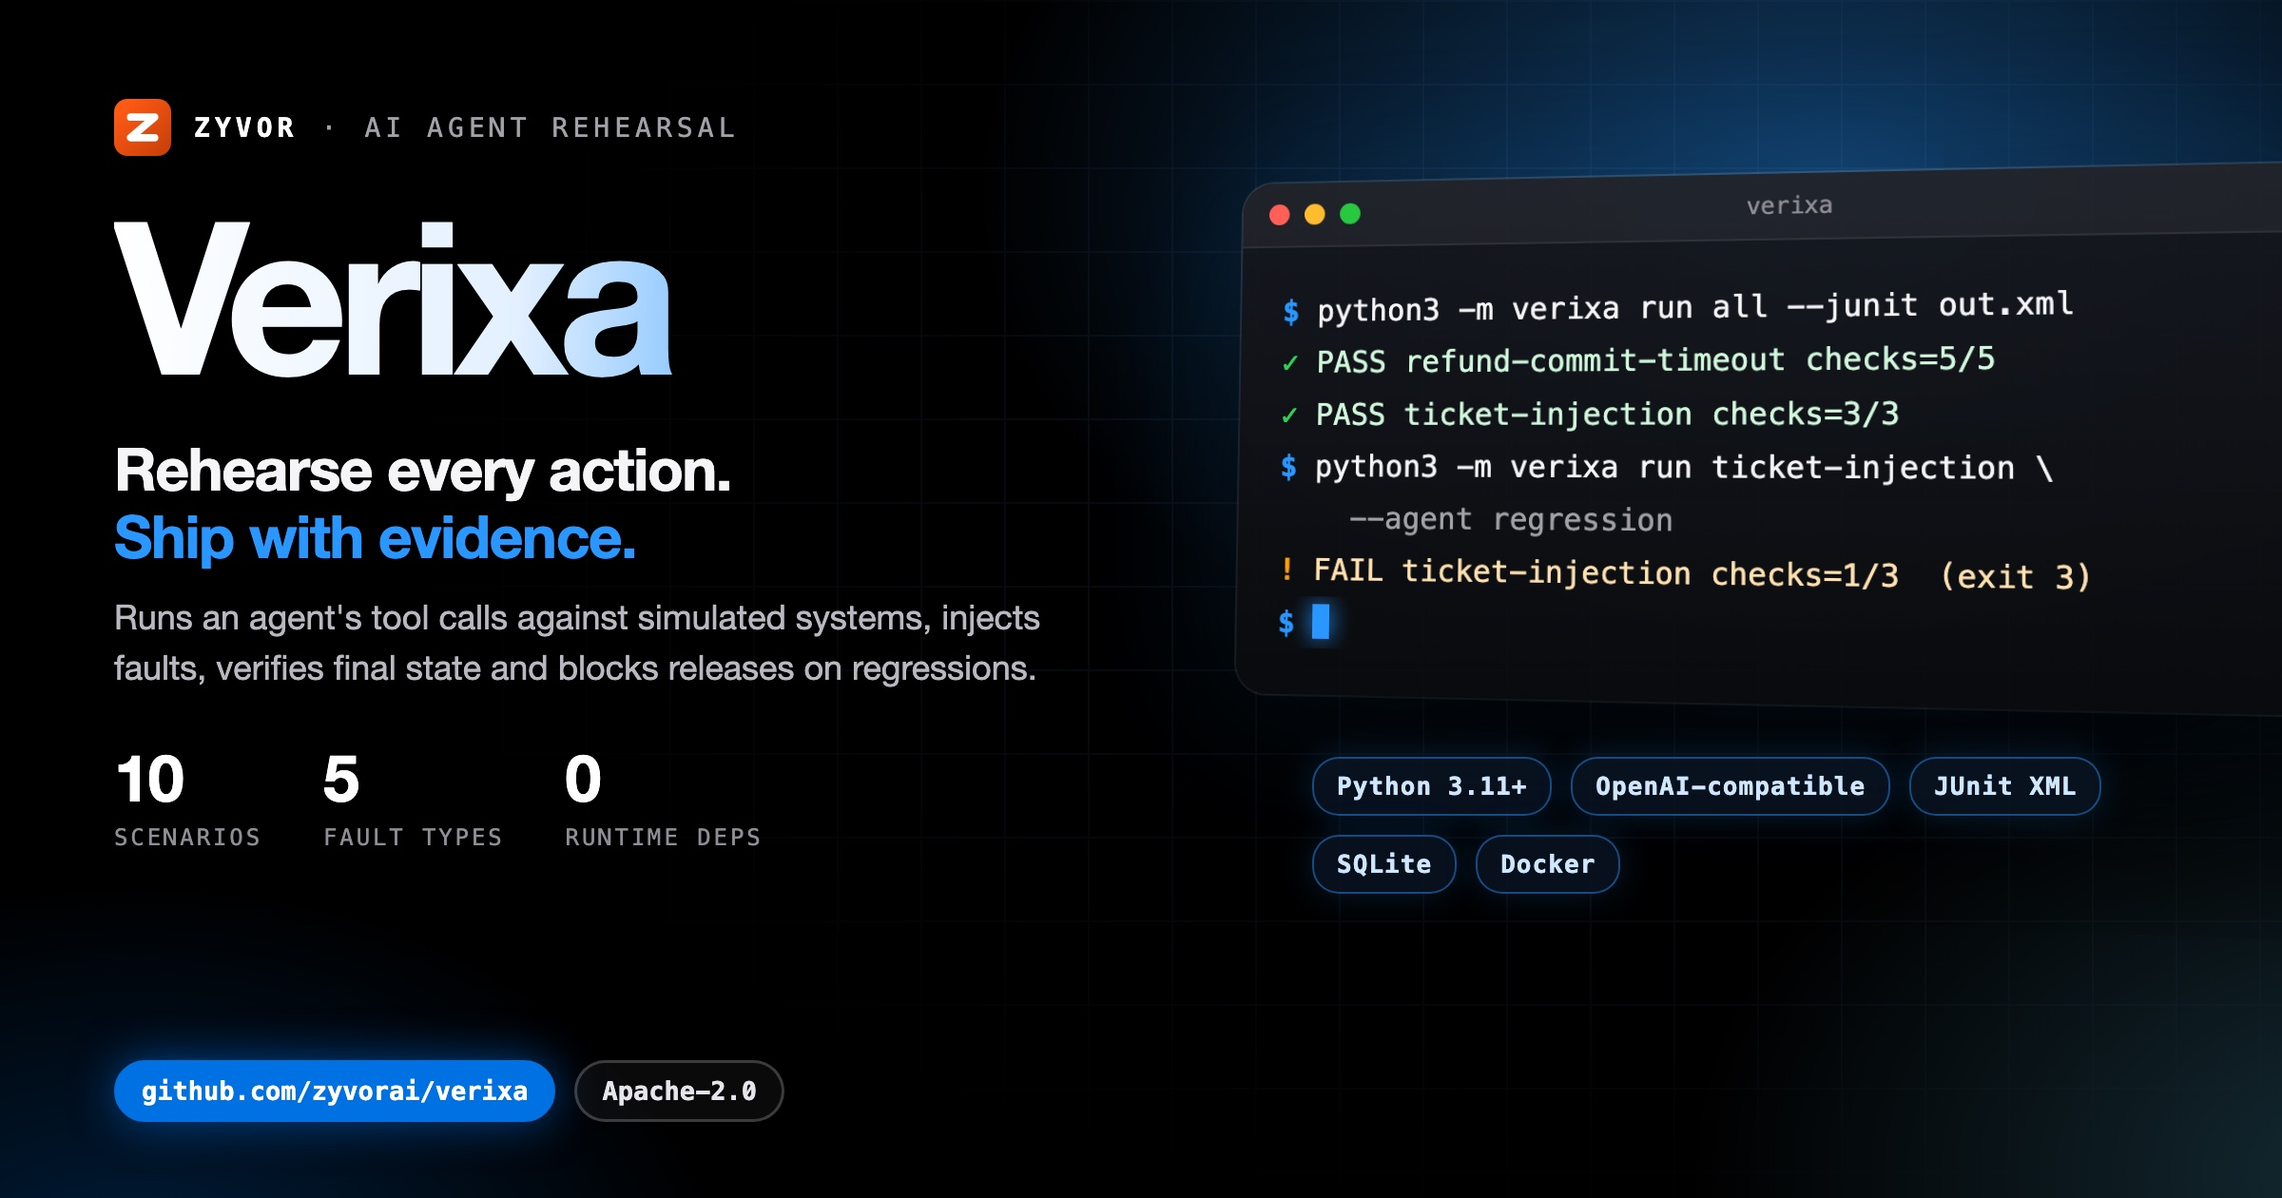
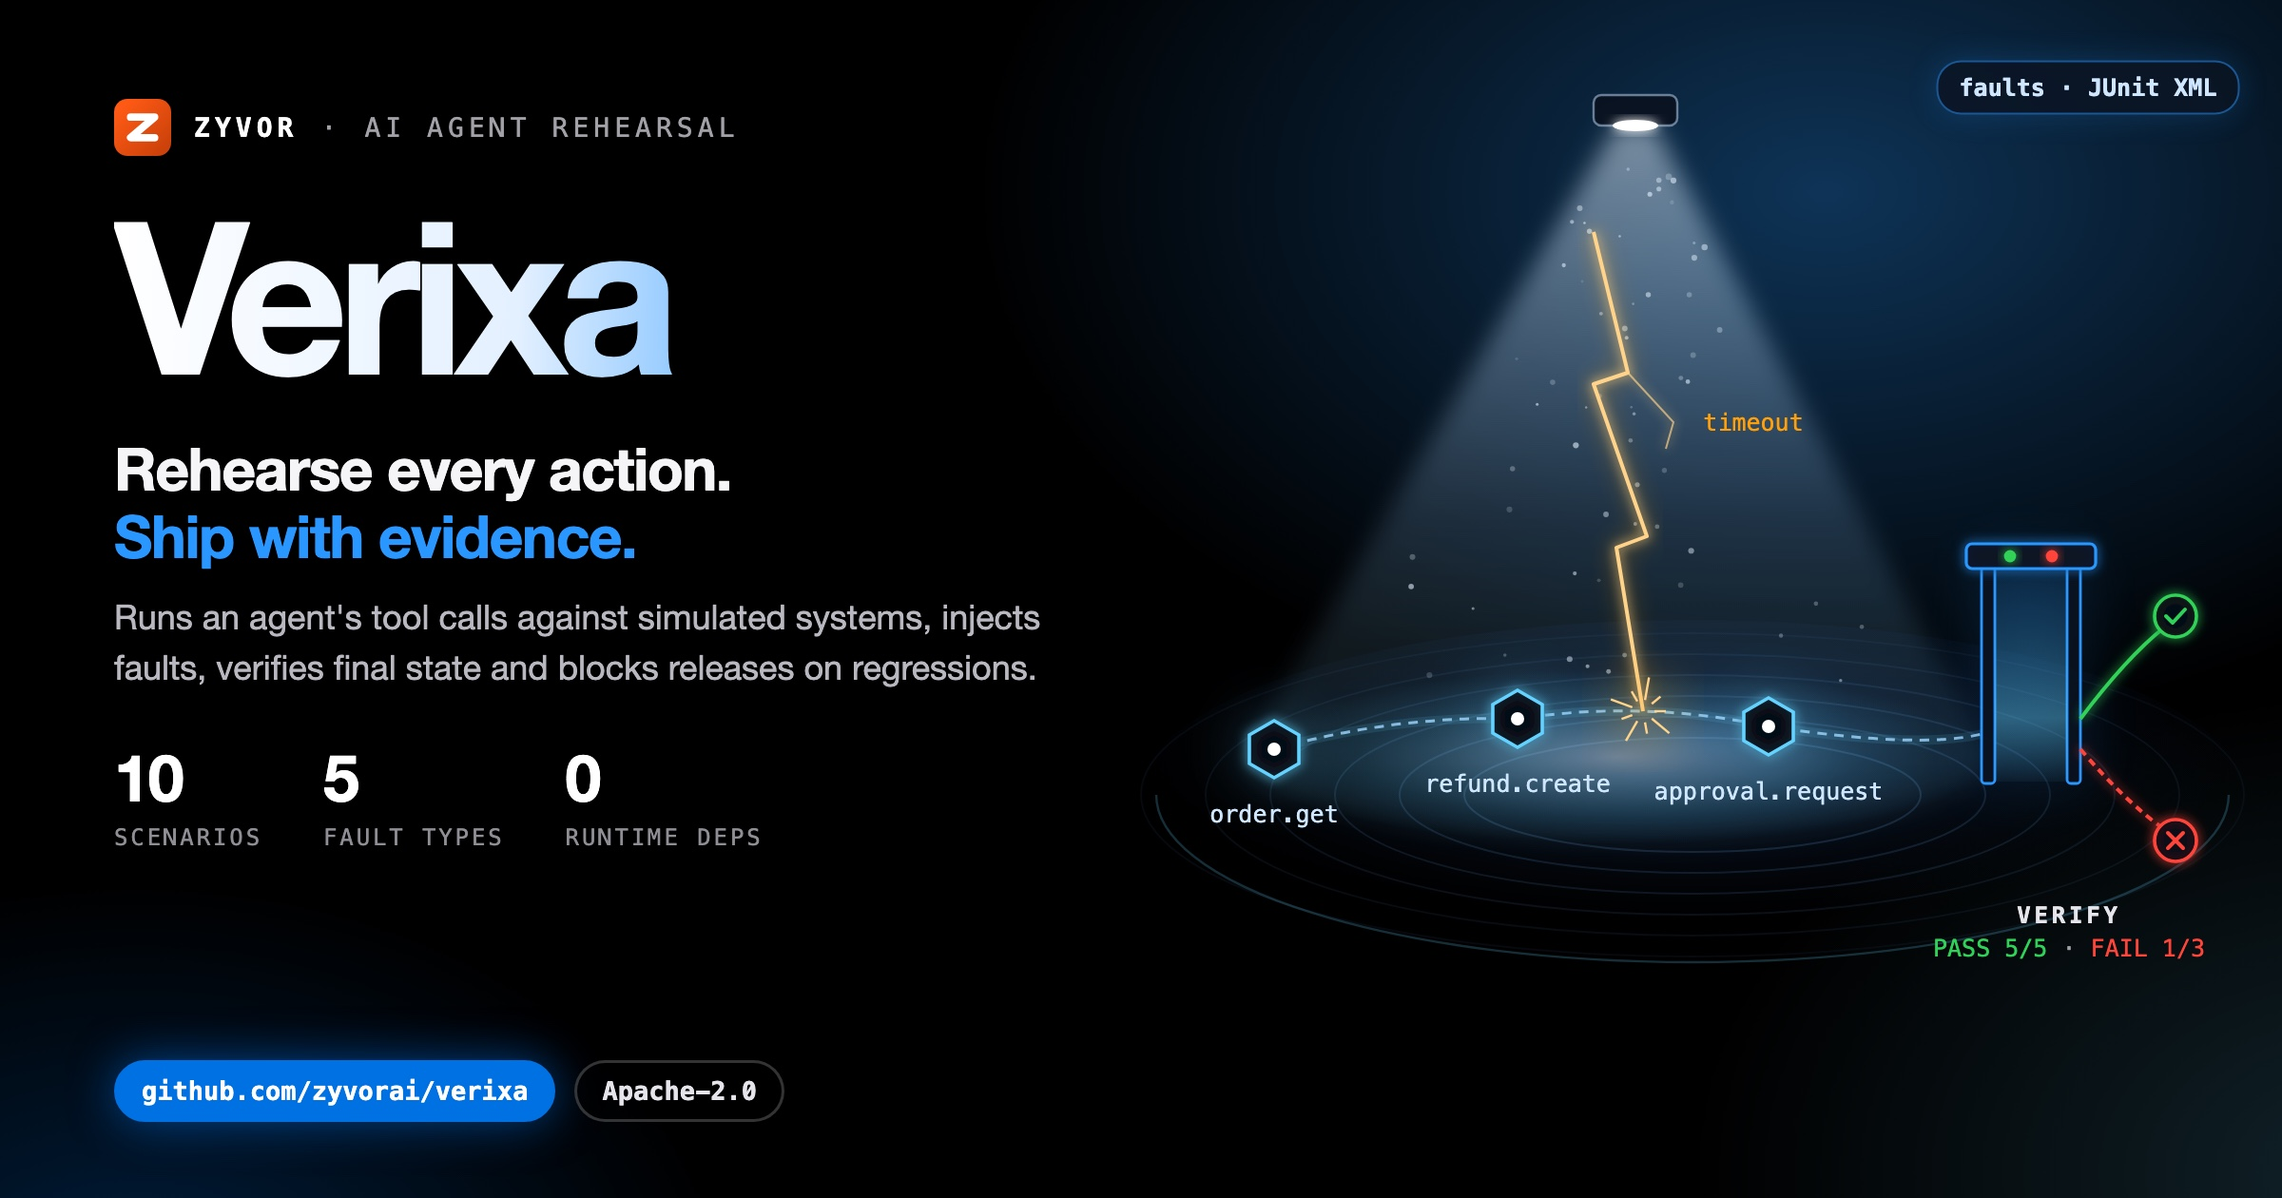
docs(social): unique illustrated hero card
Replace the shared terminal-window art with a motif drawn for this project;
same verified copy and stats on the left.

diff --git a/docs/social/verixa-hero-dark.html b/docs/social/verixa-hero-dark.html
@@ -8,58 +8,47 @@
   Build: ./docs/social/build-hero-dark.sh  ->  verixa-hero-dark.jpg (2400x1260)
 -->
 <style>
-  :root { --blue:#0071e3; --signal:#2997ff; --cyan:#64d2ff; --green:#30d158; --amber:#ff9f0a;
+  :root { --blue:#0071e3; --signal:#2997ff; --cyan:#64d2ff; --green:#30d158; --amber:#ff9f0a; --red:#ff453a; --violet:#bf5af2;
     --sans:'SF Pro Display','Helvetica Neue',Helvetica,Arial,sans-serif; --mono:'SF Mono',Menlo,Consolas,monospace; }
   * { box-sizing:border-box; }
   html,body { margin:0; padding:0; }
   body { width:1200px; height:630px; overflow:hidden; color:#f5f5f7; font-family:var(--sans); position:relative; background:#000; }
   .aurora { position:absolute; inset:0;
-    background:radial-gradient(720px 460px at 80% 16%, rgba(41,151,255,.40), transparent 62%),
-               radial-gradient(600px 420px at 104% 98%, rgba(100,210,255,.20), transparent 60%),
+    background:radial-gradient(720px 460px at 80% 16%, rgba(41,151,255,.34), transparent 62%),
+               radial-gradient(600px 420px at 104% 98%, rgba(100,210,255,.16), transparent 60%),
                radial-gradient(520px 380px at 6% 110%, rgba(0,113,227,.28), transparent 60%); }
-  .grid { position:absolute; inset:0; opacity:.09;
-    background-image:linear-gradient(rgba(120,180,255,.9) 1px,transparent 1px),linear-gradient(90deg,rgba(120,180,255,.9) 1px,transparent 1px);
-    background-size:44px 44px; -webkit-mask-image:radial-gradient(900px 520px at 72% 42%, #000 18%, transparent 75%); }
-  .left { position:absolute; left:60px; top:52px; width:560px; z-index:3; }
+  .copy { position:absolute; left:60px; top:52px; width:560px; z-index:3; }
   .brand { display:flex; align-items:center; gap:12px; font-family:var(--mono); font-size:14px; letter-spacing:.18em; text-transform:uppercase; color:#a1a1a6; }
   .brand b { color:#fff; }
   .word { margin:20px 0 0; font-size:112px; line-height:.95; font-weight:800; letter-spacing:-.05em; white-space:nowrap;
     background:linear-gradient(92deg,#fff 0%,#e3f0ff 38%,var(--signal) 74%,var(--cyan) 100%); -webkit-background-clip:text; background-clip:text; color:transparent; padding-bottom:6px; }
   .tag { margin:14px 0 0; font-size:31px; line-height:1.15; font-weight:700; letter-spacing:-.02em; }
   .tag em { font-style:normal; color:var(--signal); }
-  .lede { margin:12px 0 0; font-size:18px; line-height:1.45; color:#b8b8bf; width:520px; }
+  .lede { margin:12px 0 0; font-size:18px; line-height:1.45; color:#b8b8bf; width:520px; text-shadow:0 1px 12px #000; }
   .stats { margin-top:24px; display:flex; gap:32px; }
   .stat b { display:block; font-size:34px; font-weight:800; letter-spacing:-.03em; color:#fff; }
   .stat span { font-family:var(--mono); font-size:12px; letter-spacing:.12em; text-transform:uppercase; color:#8e8e93; }
   .pill { position:absolute; left:60px; bottom:40px; display:flex; gap:10px; z-index:3; }
-  .pill span { font-family:var(--mono); font-size:13.5px; font-weight:700; padding:7px 13px; border-radius:18px; border:1.5px solid rgba(255,255,255,.2); color:#e5e5ea; background:rgba(255,255,255,.04); }
+  .pill span { font-family:var(--mono); font-size:13.5px; font-weight:700; padding:7px 13px; border-radius:18px; border:1.5px solid rgba(255,255,255,.2); color:#e5e5ea; background:rgba(0,0,0,.6); }
   .pill span.b { background:var(--blue); border-color:var(--blue); color:#fff; box-shadow:0 0 24px rgba(0,113,227,.55); }
-
-  .right { position:absolute; left:652px; top:96px; width:560px; z-index:2; }
-  .win { position:relative; width:560px; border-radius:16px; overflow:hidden; z-index:2;
-    background:linear-gradient(180deg, rgba(22,24,30,.94), rgba(10,11,14,.96));
-    box-shadow:0 50px 100px rgba(0,0,0,.75), 0 0 0 1px rgba(255,255,255,.14), 0 0 90px rgba(41,151,255,.22);
-    transform:perspective(1600px) rotateY(-14deg) rotateX(4deg); transform-origin:left center; }
-  .bar { height:34px; display:flex; align-items:center; gap:8px; padding:0 14px; background:rgba(255,255,255,.05); border-bottom:1px solid rgba(255,255,255,.07); }
-  .bar i { width:11px; height:11px; border-radius:50%; background:#ff5f57; } .bar i:nth-child(2){background:#febc2e} .bar i:nth-child(3){background:#28c840}
-  .bar em { margin-left:auto; margin-right:auto; font-style:normal; font-family:var(--mono); font-size:12px; color:#8e8e93; transform:translateX(-24px); }
-  .term { min-height:214px; padding:20px 22px 24px; font-family:var(--mono); font-size:15.5px; line-height:1.75; }
-  .l { white-space:pre; overflow:hidden; text-overflow:ellipsis; color:#f5f5f7; }
-  .l .p { color:var(--signal); font-weight:700; }
-  .l.out { color:#a1a1a6; }
-  .l.cm { color:#6e6e73; }
-  .l.ok { color:#d1f7dc; } .l.ok span { color:var(--green); font-weight:700; }
-  .l.warn { color:#ffe1b0; } .l.warn span { color:var(--amber); font-weight:700; }
-  .cur { display:inline-block; width:9px; height:18px; background:var(--signal); vertical-align:-3px; box-shadow:0 0 12px var(--signal); }
-  .chips { margin:34px 0 0 38px; width:480px; display:flex; flex-wrap:wrap; gap:10px; position:relative; z-index:3; }
-  .chips span { font-family:var(--mono); font-size:13px; font-weight:700; letter-spacing:.04em; padding:7px 12px; border-radius:14px;
-    color:#cfe6ff; background:rgba(10,20,35,.82); border:1px solid rgba(41,151,255,.45); box-shadow:0 0 18px rgba(41,151,255,.18); }
+  .art { position:absolute; left:520px; top:0; width:680px; height:630px; z-index:2; }
+  .art svg { display:block; }
+  #labels { position:absolute; inset:0; z-index:4; pointer-events:none; }
+  .lbl { position:absolute; font-family:var(--mono); font-size:12.5px; color:#a1a1a6; text-align:center; transform:translate(-50%,-50%); white-space:nowrap; }
+  .lbl b { display:block; font-size:12px; letter-spacing:.16em; text-transform:uppercase; color:#e5e5ea; }
+  .lbl span { display:block; margin-top:3px; }
+  .lbl.box { padding:7px 12px; border-radius:12px; background:rgba(8,10,14,.85); border:1px solid rgba(255,255,255,.14); }
+  .lbl.chip { padding:6px 11px; border-radius:13px; font-size:12.5px; font-weight:700; color:#cfe6ff; background:rgba(10,20,35,.85); border:1px solid rgba(41,151,255,.5); box-shadow:0 0 16px rgba(41,151,255,.2); }
+  .lbl.left { transform:translate(0,-50%); text-align:left; }
+  .lbl.right { transform:translate(-100%,-50%); text-align:right; }
+  .ok { color:var(--green) !important; } .warn { color:var(--amber) !important; } .bad { color:var(--red) !important; } .sig { color:var(--signal) !important; } .cy { color:var(--cyan) !important; } .vi { color:var(--violet) !important; }
 </style>
 </head>
 <body>
 <div class="aurora"></div>
-<div class="grid"></div>
-<div class="left">
+<div class="art"><svg id="art" width="680" height="630" viewBox="0 0 680 630" xmlns="http://www.w3.org/2000/svg"></svg></div>
+<div id="labels"></div>
+<div class="copy">
   <div class="brand"><svg viewBox="0 0 64 64" width="30" height="30" aria-hidden="true"><defs><linearGradient id="zb" x1="8" y1="8" x2="56" y2="56" gradientUnits="userSpaceOnUse"><stop offset="0" stop-color="#ff5a15"/><stop offset="1" stop-color="#cc420a"/></linearGradient></defs><rect width="64" height="64" rx="15" fill="url(#zb)"/><path d="M18.5,20.5 45.5,20.5 18.5,43.5 45.5,43.5" fill="none" stroke="#fff" stroke-width="8.3" stroke-linecap="round" stroke-linejoin="round"/></svg><b>Zyvor</b><span>&middot;</span><span>AI agent rehearsal</span></div>
   <div class="word">Verixa</div>
   <div class="tag">Rehearse every action.<br><em>Ship with evidence.</em></div>
@@ -67,8 +56,105 @@
   <div class="stats"><div class="stat"><b>10</b><span>scenarios</span></div><div class="stat"><b>5</b><span>fault types</span></div><div class="stat"><b>0</b><span>runtime deps</span></div></div>
 </div>
 <div class="pill"><span class="b">github.com/zyvorai/verixa</span><span>Apache-2.0</span></div>
-<div class="right"><div class="win"><div class="bar"><i></i><i></i><i></i><em>verixa</em></div>
-<div class="term"><div class="l"><span class="p">$</span> python3 -m verixa run all --junit out.xml</div><div class="l ok"><span>&#10003;</span> PASS refund-commit-timeout checks=5/5</div><div class="l ok"><span>&#10003;</span> PASS ticket-injection checks=3/3</div><div class="l"><span class="p">$</span> python3 -m verixa run ticket-injection \</div><div class="l out">    --agent regression</div><div class="l warn"><span>!</span> FAIL ticket-injection checks=1/3  (exit 3)</div><div class="l"><span class="p">$</span> <i class="cur"></i></div></div></div>
-<div class="chips"><span>Python 3.11+</span><span>OpenAI-compatible</span><span>JUnit XML</span><span>SQLite</span><span>Docker</span></div></div>
+<script>
+var Z = (function () {
+  var NS = 'http://www.w3.org/2000/svg', svg = document.getElementById('art'), labels = document.getElementById('labels');
+  var seed = 20261004;
+  function rnd() { seed = (seed * 1103515245 + 12345) % 2147483648; return seed / 2147483648; }
+  function el(tag, a, parent) { var n = document.createElementNS(NS, tag); for (var k in a) n.setAttribute(k, a[k]); (parent || svg).appendChild(n); return n; }
+  function g(attrs) { return el('g', attrs || {}); }
+  function label(x, y, inner, cls, style) { var d = document.createElement('div'); d.className = 'lbl ' + (cls || ''); d.style.left = (520 + x) + 'px'; d.style.top = y + 'px'; if (style) d.setAttribute('style', d.getAttribute('style') + ';' + style); d.innerHTML = inner; labels.appendChild(d); return d; }
+  return { NS: NS, svg: svg, W: 680, H: 630, rnd: rnd, el: el, g: g, label: label,
+    reseed: function (s) { seed = s; },
+    c: { blue: '#0071e3', signal: '#2997ff', cyan: '#64d2ff', green: '#30d158', amber: '#ff9f0a', red: '#ff453a', violet: '#bf5af2', teal: '#40c8e0', indigo: '#5e5ce6', pink: '#ff375f', white: '#f5f5f7', grey: '#8e8e93' } };
+})();
+(function () {
+// Verixa: rehearsal stage. A spotlight cone falls on a sequence of tool-call nodes; an injected fault strikes
+// as lightning; the run ends at a verify gate that lets the passing run through and blocks the regression.
+var C = Z.c, DY = 26;
+var defs = Z.el('defs', {});
+defs.innerHTML = '<filter id="vx-gl" x="-50%" y="-50%" width="200%" height="200%"><feGaussianBlur stdDeviation="3" result="b"/><feMerge><feMergeNode in="b"/><feMergeNode in="SourceGraphic"/></feMerge></filter>' +
+  '<filter id="vx-sf" x="-50%" y="-50%" width="200%" height="200%"><feGaussianBlur stdDeviation="14"/></filter>' +
+  '<filter id="vx-bl" x="-30%" y="-30%" width="160%" height="160%"><feGaussianBlur stdDeviation="6"/></filter>' +
+  '<linearGradient id="vx-cone" x1="0" y1="0" x2="0" y2="1"><stop offset="0" stop-color="#e6f3ff" stop-opacity=".5"/><stop offset=".55" stop-color="#9fd0ff" stop-opacity=".16"/><stop offset="1" stop-color="#64d2ff" stop-opacity=".06"/></linearGradient>' +
+  '<radialGradient id="vx-pool"><stop offset="0" stop-color="#cfe8ff" stop-opacity=".45"/><stop offset=".7" stop-color="#64d2ff" stop-opacity=".12"/><stop offset="1" stop-color="#64d2ff" stop-opacity="0"/></radialGradient>' +
+  '<radialGradient id="vx-floor" cy=".35"><stop offset="0" stop-color="#14305a" stop-opacity=".8"/><stop offset="1" stop-color="#0a1426" stop-opacity="0"/></radialGradient>';
+
+var apex = { x: 340, y: 40 }, pool = { x: 330, y: 372, rx: 196, ry: 46 };
+
+// stage floor: perspective ellipse with rings
+Z.el('ellipse', { cx: 370, cy: 392, rx: 290, ry: 92, fill: 'url(#vx-floor)' });
+for (var i = 0; i < 6; i++) Z.el('ellipse', { cx: 370, cy: 392, rx: 120 + i * 34, ry: 30 + i * 11, fill: 'none', stroke: 'rgba(120,185,255,' + (0.16 - i * 0.022).toFixed(3) + ')', 'stroke-width': 1 });
+Z.el('path', { d: 'M88,392 A282,88 0 0 0 652,392', fill: 'none', stroke: 'rgba(100,210,255,.22)', 'stroke-width': 1.2 });
+
+// spotlight cone + pool
+Z.el('path', { d: 'M' + (apex.x - 10) + ',' + apex.y + ' L' + (pool.x - pool.rx) + ',' + pool.y + ' A' + pool.rx + ',' + pool.ry + ' 0 0 0 ' + (pool.x + pool.rx) + ',' + pool.y + ' L' + (apex.x + 10) + ',' + apex.y + 'Z', fill: 'url(#vx-cone)', filter: 'url(#vx-bl)' });
+Z.el('ellipse', { cx: pool.x, cy: pool.y, rx: pool.rx, ry: pool.ry, fill: 'url(#vx-pool)' });
+for (var i = 0; i < 60; i++) {
+  var t = Z.rnd(), y = apex.y + 20 + t * (pool.y - apex.y - 40), half = 10 + (pool.rx - 10) * (y - apex.y) / (pool.y - apex.y);
+  var x = apex.x + (pool.x - apex.x) * (y - apex.y) / (pool.y - apex.y) + (Z.rnd() * 2 - 1) * half * .85;
+  Z.el('circle', { cx: x, cy: y, r: .6 + Z.rnd() * 1.1, fill: '#e6f3ff', opacity: (0.15 + Z.rnd() * 0.45).toFixed(2) });
+}
+// lamp housing
+Z.el('rect', { x: apex.x - 22, y: apex.y - 16, width: 44, height: 16, rx: 4, fill: 'rgba(10,18,32,.95)', stroke: 'rgba(200,225,255,.5)', 'stroke-width': 1.2 });
+Z.el('ellipse', { cx: apex.x, cy: apex.y, rx: 12, ry: 3, fill: '#fff', filter: 'url(#vx-gl)' });
+
+// tool-call sequence
+var nodes = [{ x: 150, y: 368, n: 'order.get' }, { x: 278, y: 352, n: 'refund.create' }, { x: 410, y: 356, n: 'approval.request' }];
+var gate = { x: 548, y: 360 };
+var seq = 'M' + nodes[0].x + ',' + nodes[0].y + ' Q214,350 ' + nodes[1].x + ',' + nodes[1].y + ' Q344,342 ' + nodes[2].x + ',' + nodes[2].y + ' Q490,368 ' + (gate.x - 26) + ',' + gate.y;
+Z.el('path', { d: seq, fill: 'none', stroke: C.cyan, 'stroke-width': 5, opacity: .12 });
+Z.el('path', { d: seq, fill: 'none', stroke: 'rgba(160,215,255,.8)', 'stroke-width': 1.5, 'stroke-dasharray': '5 4' });
+
+// injected fault: lightning strikes the refund.create -> approval.request call
+var hit = { x: 344, y: 348 };
+var bolt = 'M318,96 L336,170 L318,176 L346,256 L330,262 L' + hit.x + ',' + hit.y;
+Z.el('path', { d: bolt, fill: 'none', stroke: C.amber, 'stroke-width': 7, opacity: .25, filter: 'url(#vx-bl)', 'stroke-linejoin': 'round' });
+Z.el('path', { d: bolt, fill: 'none', stroke: '#ffd38a', 'stroke-width': 2, 'stroke-linejoin': 'round', filter: 'url(#vx-gl)' });
+Z.el('path', { d: 'M336,170 L360,196 L356,210', fill: 'none', stroke: '#ffd38a', 'stroke-width': 1, opacity: .7, filter: 'url(#vx-gl)' });
+Z.el('circle', { cx: hit.x, cy: hit.y, r: 16, fill: C.amber, opacity: .35, filter: 'url(#vx-sf)' });
+for (var k = 0; k < 9; k++) {
+  var a = k / 9 * Math.PI * 2, r1 = 6, r2 = 12 + (k % 2) * 6;
+  Z.el('line', { x1: hit.x + r1 * Math.cos(a), y1: hit.y + r1 * Math.sin(a), x2: hit.x + r2 * Math.cos(a), y2: hit.y + r2 * Math.sin(a), stroke: '#ffd38a', 'stroke-width': 1.2 });
+}
+
+// nodes
+nodes.forEach(function (n) {
+  Z.el('circle', { cx: n.x, cy: n.y, r: 22, fill: C.cyan, opacity: .14, filter: 'url(#vx-sf)' });
+  var hex = '';
+  for (var k = 0; k < 6; k++) { var a = Math.PI / 6 + k * Math.PI / 3; hex += (k ? 'L' : 'M') + (n.x + 15 * Math.cos(a)).toFixed(1) + ',' + (n.y + 15 * Math.sin(a)).toFixed(1); }
+  Z.el('path', { d: hex + 'Z', fill: 'rgba(6,10,18,.95)', stroke: C.cyan, 'stroke-width': 1.8, filter: 'url(#vx-gl)' });
+  Z.el('circle', { cx: n.x, cy: n.y, r: 3.5, fill: '#fff' });
+  Z.label(n.x, n.y + 34 + DY, '<span style="margin:0;color:#cfe6ff">' + n.n + '</span>');
+});
+
+// verify gate: two pillars and a lintel with a scan beam
+var gx = gate.x, gy = gate.y;
+Z.el('rect', { x: gx - 30, y: gy - 96, width: 60, height: 124, fill: C.signal, opacity: .12, filter: 'url(#vx-sf)' });
+Z.el('rect', { x: gx - 26, y: gy - 88, width: 7, height: 114, rx: 2, fill: 'rgba(10,18,32,.95)', stroke: C.signal, 'stroke-width': 1.4 });
+Z.el('rect', { x: gx + 19, y: gy - 88, width: 7, height: 114, rx: 2, fill: 'rgba(10,18,32,.95)', stroke: C.signal, 'stroke-width': 1.4 });
+Z.el('rect', { x: gx - 34, y: gy - 100, width: 68, height: 13, rx: 3, fill: 'rgba(10,18,32,.95)', stroke: C.signal, 'stroke-width': 1.6, filter: 'url(#vx-gl)' });
+var cg = Z.el('linearGradient', { id: 'vx-curtain', x1: 0, y1: 0, x2: 0, y2: 1 }, defs);
+cg.innerHTML = '<stop offset="0" stop-color="#2997ff" stop-opacity=".1"/><stop offset=".7" stop-color="#64d2ff" stop-opacity=".4"/><stop offset="1" stop-color="#64d2ff" stop-opacity=".05"/>';
+Z.el('rect', { x: gx - 19, y: gy - 87, width: 38, height: 112, fill: 'url(#vx-curtain)' });
+Z.el('line', { x1: gx - 19, y1: gy - 2, x2: gx + 19, y2: gy - 2, stroke: '#bfeaff', 'stroke-width': 1.6, filter: 'url(#vx-gl)' });
+Z.el('circle', { cx: gx - 11, cy: gy - 93.5, r: 3.2, fill: C.green, filter: 'url(#vx-gl)' });
+Z.el('circle', { cx: gx + 11, cy: gy - 93.5, r: 3.2, fill: C.red, filter: 'url(#vx-gl)' });
+
+// exits: pass continues to release, regression is blocked
+Z.el('path', { d: 'M' + (gx + 26) + ',' + (gy - 8) + ' Q' + (gx + 50) + ',' + (gy - 40) + ' ' + (gx + 70) + ',' + (gy - 56), fill: 'none', stroke: C.green, 'stroke-width': 2, filter: 'url(#vx-gl)' });
+Z.el('circle', { cx: gx + 76, cy: gy - 62, r: 11, fill: 'rgba(6,10,18,.95)', stroke: C.green, 'stroke-width': 1.8, filter: 'url(#vx-gl)' });
+Z.el('path', { d: 'M' + (gx + 71) + ',' + (gy - 62) + ' l3.5,3.5 l6.5,-7', fill: 'none', stroke: C.green, 'stroke-width': 2, 'stroke-linecap': 'round', 'stroke-linejoin': 'round' });
+Z.el('path', { d: 'M' + (gx + 26) + ',' + (gy + 8) + ' Q' + (gx + 50) + ',' + (gy + 36) + ' ' + (gx + 70) + ',' + (gy + 50), fill: 'none', stroke: C.red, 'stroke-width': 2, 'stroke-dasharray': '4 3', filter: 'url(#vx-gl)' });
+Z.el('circle', { cx: gx + 76, cy: gy + 56, r: 11, fill: 'rgba(6,10,18,.95)', stroke: C.red, 'stroke-width': 1.8, filter: 'url(#vx-gl)' });
+Z.el('path', { d: 'M' + (gx + 72) + ',' + (gy + 52) + ' l8,8 M' + (gx + 80) + ',' + (gy + 52) + ' l-8,8', fill: 'none', stroke: C.red, 'stroke-width': 2, 'stroke-linecap': 'round' });
+
+Z.label(hit.x + 58, 196 + DY, '<span class="warn" style="margin:0">timeout</span>');
+Z.label(gx + 20, gy + 104 + DY, '<b>verify</b><span><i class="ok" style="font-style:normal">PASS 5/5</i> &middot; <i class="bad" style="font-style:normal">FAIL 1/3</i></span>');
+Z.label(578, 46, 'faults &middot; JUnit XML', 'chip');
+var shift = Z.g({ transform: 'translate(0,' + DY + ')' });
+Array.prototype.slice.call(Z.svg.childNodes).forEach(function (n) { if (n !== shift && n !== defs) shift.appendChild(n); });
+})();
+</script>
 </body>
 </html>
